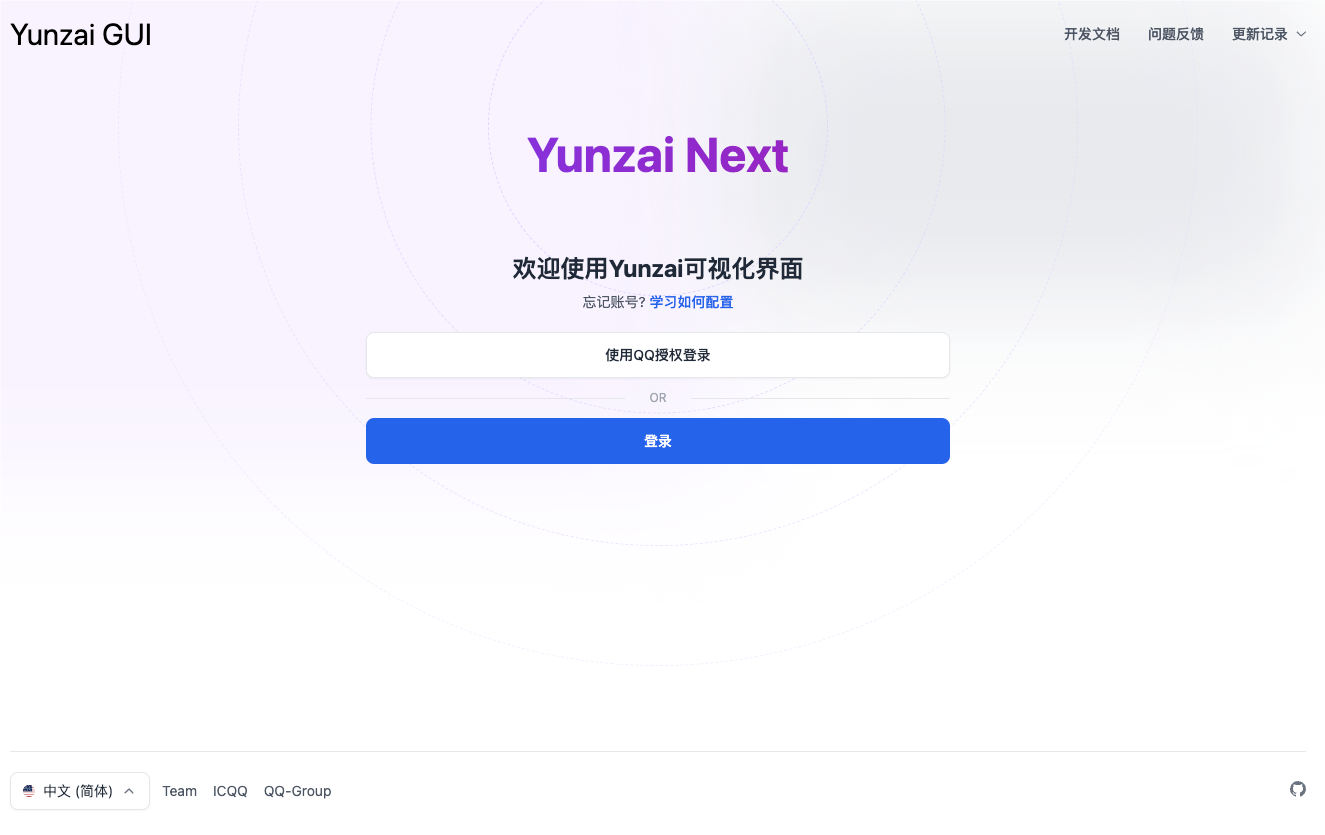
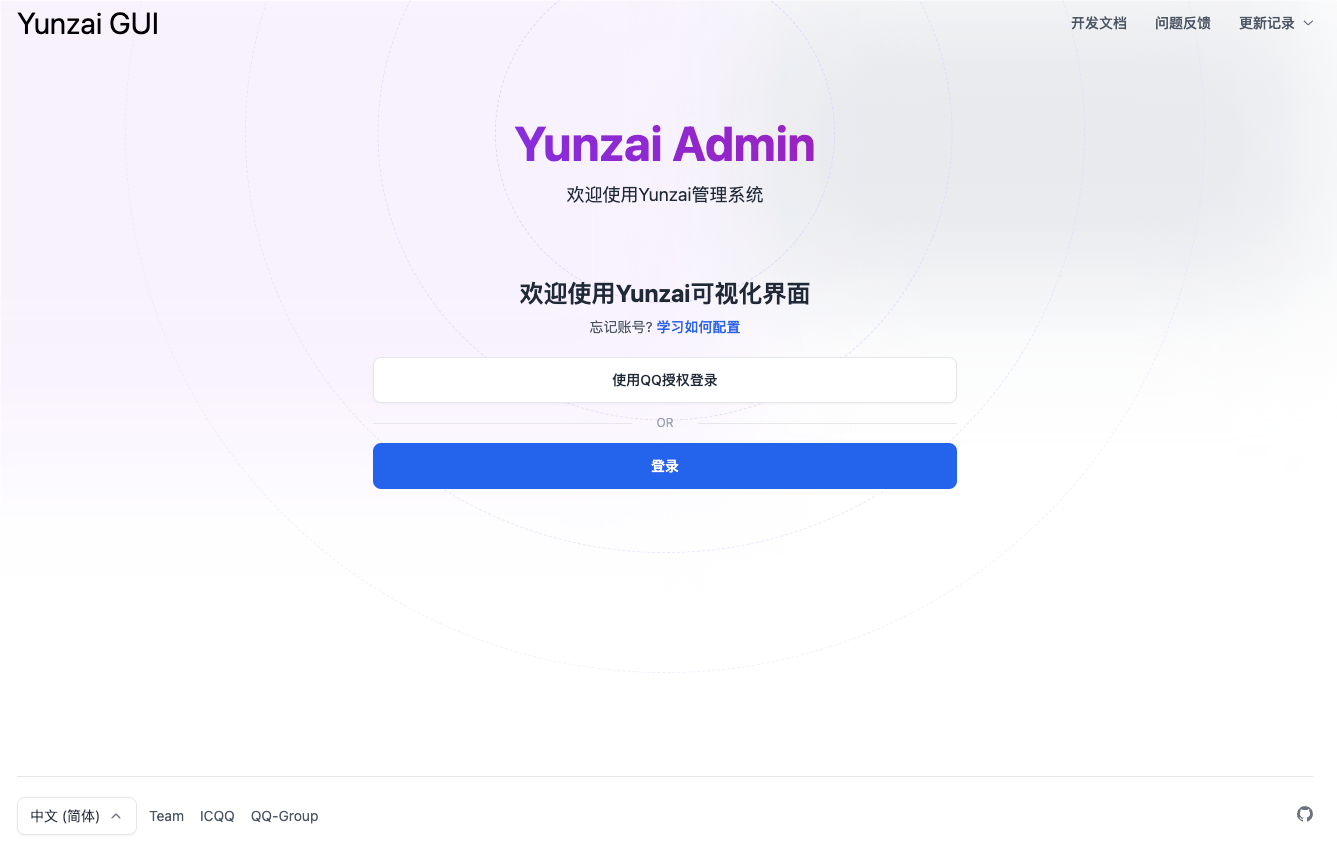
fix: 错误图标

diff --git a/src/app/pages/home/Footer.tsx b/src/app/pages/home/Footer.tsx
@@ -13,37 +13,6 @@ export default () => {
                 aria-expanded="false"
                 aria-label="Dropdown"
               >
-                <svg
-                  className="size-3 rounded-full"
-                  xmlns="http://www.w3.org/2000/svg"
-                  id="flag-icon-css-us1"
-                  viewBox="0 0 512 512"
-                >
-                  <g fillRule="evenodd">
-                    <g strokeWidth="1pt">
-                      <path
-                        fill="#bd3d44"
-                        d="M0 0h247v10H0zm0 20h247v10H0zm0 20h247v10H0zm0 20h247v10H0zm0 20h247v10H0zm0 20h247v10H0zm0 20h247v10H0z"
-                        transform="scale(3.9385)"
-                      />
-                      <path
-                        fill="#fff"
-                        d="M0 10h247v10H0zm0 20h247v10H0zm0 20h247v10H0zm0 20h247v10H0zm0 20h247v10H0zm0 20h247v10H0z"
-                        transform="scale(3.9385)"
-                      />
-                    </g>
-                    <path
-                      fill="#192f5d"
-                      d="M0 0h98.8v70H0z"
-                      transform="scale(3.9385)"
-                    />
-                    <path
-                      fill="#fff"
-                      d="M8.2 3l1 2.8H12L9.7 7.5l.9 2.7-2.4-1.7L6 10.2l.9-2.7-2.4-1.7h3zm16.5 0l.9 2.8h2.9l-2.4 1.7 1 2.7-2.4-1.7-2.4 1.7 1-2.7-2.4-1.7h2.9zm16.5 0l.9 2.8H45l-2.4 1.7 1 2.7-2.4-1.7-2.4 1.7 1-2.7-2.4-1.7h2.9zm16.4 0l1 2.8h2.8l-2.3 1.7.9 2.7-2.4-1.7-2.3 1.7.9-2.7-2.4-1.7h3zm16.5 0l.9 2.8h2.9l-2.4 1.7 1 2.7L74 8.5l-2.3 1.7.9-2.7-2.4-1.7h2.9zm16.5 0l.9 2.8h2.9L92 7.5l1 2.7-2.4-1.7-2.4 1.7 1-2.7-2.4-1.7h2.9zm-74.1 7l.9 2.8h2.9l-2.4 1.7 1 2.7-2.4-1.7-2.4 1.7 1-2.7-2.4-1.7h2.9zm16.4 0l1 2.8h2.8l-2.3 1.7.9 2.7-2.4-1.7-2.3 1.7.9-2.7-2.4-1.7h3zm16.5 0l.9 2.8h2.9l-2.4 1.7 1 2.7-2.4-1.7-2.4 1.7 1-2.7-2.4-1.7h2.9zm16.5 0l.9 2.8h2.9l-2.4 1.7 1 2.7-2.4-1.7-2.4 1.7 1-2.7-2.4-1.7H65zm16.4 0l1 2.8H86l-2.3 1.7.9 2.7-2.4-1.7-2.3 1.7.9-2.7-2.4-1.7h3zm-74 7l.8 2.8h3l-2.4 1.7.9 2.7-2.4-1.7L6 24.2l.9-2.7-2.4-1.7h3zm16.4 0l.9 2.8h2.9l-2.3 1.7.9 2.7-2.4-1.7-2.3 1.7.9-2.7-2.4-1.7h2.9zm16.5 0l.9 2.8H45l-2.4 1.7 1 2.7-2.4-1.7-2.4 1.7 1-2.7-2.4-1.7h2.9zm16.4 0l1 2.8h2.8l-2.3 1.7.9 2.7-2.4-1.7-2.3 1.7.9-2.7-2.4-1.7h3zm16.5 0l.9 2.8h2.9l-2.3 1.7.9 2.7-2.4-1.7-2.3 1.7.9-2.7-2.4-1.7h2.9zm16.5 0l.9 2.8h2.9L92 21.5l1 2.7-2.4-1.7-2.4 1.7 1-2.7-2.4-1.7h2.9zm-74.1 7l.9 2.8h2.9l-2.4 1.7 1 2.7-2.4-1.7-2.4 1.7 1-2.7-2.4-1.7h2.9zm16.4 0l1 2.8h2.8l-2.3 1.7.9 2.7-2.4-1.7-2.3 1.7.9-2.7-2.4-1.7h3zm16.5 0l.9 2.8h2.9l-2.3 1.7.9 2.7-2.4-1.7-2.3 1.7.9-2.7-2.4-1.7h2.9zm16.5 0l.9 2.8h2.9l-2.4 1.7 1 2.7-2.4-1.7-2.4 1.7 1-2.7-2.4-1.7H65zm16.4 0l1 2.8H86l-2.3 1.7.9 2.7-2.4-1.7-2.3 1.7.9-2.7-2.4-1.7h3zm-74 7l.8 2.8h3l-2.4 1.7.9 2.7-2.4-1.7L6 38.2l.9-2.7-2.4-1.7h3zm16.4 0l.9 2.8h2.9l-2.3 1.7.9 2.7-2.4-1.7-2.3 1.7.9-2.7-2.4-1.7h2.9zm16.5 0l.9 2.8H45l-2.4 1.7 1 2.7-2.4-1.7-2.4 1.7 1-2.7-2.4-1.7h2.9zm16.4 0l1 2.8h2.8l-2.3 1.7.9 2.7-2.4-1.7-2.3 1.7.9-2.7-2.4-1.7h3zm16.5 0l.9 2.8h2.9l-2.3 1.7.9 2.7-2.4-1.7-2.3 1.7.9-2.7-2.4-1.7h2.9zm16.5 0l.9 2.8h2.9L92 35.5l1 2.7-2.4-1.7-2.4 1.7 1-2.7-2.4-1.7h2.9zm-74.1 7l.9 2.8h2.9l-2.4 1.7 1 2.7-2.4-1.7-2.4 1.7 1-2.7-2.4-1.7h2.9zm16.4 0l1 2.8h2.8l-2.3 1.7.9 2.7-2.4-1.7-2.3 1.7.9-2.7-2.4-1.7h3zm16.5 0l.9 2.8h2.9l-2.3 1.7.9 2.7-2.4-1.7-2.3 1.7.9-2.7-2.4-1.7h2.9zm16.5 0l.9 2.8h2.9l-2.4 1.7 1 2.7-2.4-1.7-2.4 1.7 1-2.7-2.4-1.7H65zm16.4 0l1 2.8H86l-2.3 1.7.9 2.7-2.4-1.7-2.3 1.7.9-2.7-2.4-1.7h3zm-74 7l.8 2.8h3l-2.4 1.7.9 2.7-2.4-1.7L6 52.2l.9-2.7-2.4-1.7h3zm16.4 0l.9 2.8h2.9l-2.3 1.7.9 2.7-2.4-1.7-2.3 1.7.9-2.7-2.4-1.7h2.9zm16.5 0l.9 2.8H45l-2.4 1.7 1 2.7-2.4-1.7-2.4 1.7 1-2.7-2.4-1.7h2.9zm16.4 0l1 2.8h2.8l-2.3 1.7.9 2.7-2.4-1.7-2.3 1.7.9-2.7-2.4-1.7h3zm16.5 0l.9 2.8h2.9l-2.3 1.7.9 2.7-2.4-1.7-2.3 1.7.9-2.7-2.4-1.7h2.9zm16.5 0l.9 2.8h2.9L92 49.5l1 2.7-2.4-1.7-2.4 1.7 1-2.7-2.4-1.7h2.9zm-74.1 7l.9 2.8h2.9l-2.4 1.7 1 2.7-2.4-1.7-2.4 1.7 1-2.7-2.4-1.7h2.9zm16.4 0l1 2.8h2.8l-2.3 1.7.9 2.7-2.4-1.7-2.3 1.7.9-2.7-2.4-1.7h3zm16.5 0l.9 2.8h2.9l-2.3 1.7.9 2.7-2.4-1.7-2.3 1.7.9-2.7-2.4-1.7h2.9zm16.5 0l.9 2.8h2.9l-2.4 1.7 1 2.7-2.4-1.7-2.4 1.7 1-2.7-2.4-1.7H65zm16.4 0l1 2.8H86l-2.3 1.7.9 2.7-2.4-1.7-2.3 1.7.9-2.7-2.4-1.7h3zm-74 7l.8 2.8h3l-2.4 1.7.9 2.7-2.4-1.7L6 66.2l.9-2.7-2.4-1.7h3zm16.4 0l.9 2.8h2.9l-2.3 1.7.9 2.7-2.4-1.7-2.3 1.7.9-2.7-2.4-1.7h2.9zm16.5 0l.9 2.8H45l-2.4 1.7 1 2.7-2.4-1.7-2.4 1.7 1-2.7-2.4-1.7h2.9zm16.4 0l1 2.8h2.8l-2.3 1.7.9 2.7-2.4-1.7-2.3 1.7.9-2.7-2.4-1.7h3zm16.5 0l.9 2.8h2.9l-2.3 1.7.9 2.7-2.4-1.7-2.3 1.7.9-2.7-2.4-1.7h2.9zm16.5 0l.9 2.8h2.9L92 63.5l1 2.7-2.4-1.7-2.4 1.7 1-2.7-2.4-1.7h2.9z"
-                      transform="scale(3.9385)"
-                    />
-                  </g>
-                </svg>
                 中文 (简体)
                 <svg
                   className="hs-dropdown-open:rotate-180 shrink-0 size-4 text-gray-500 dark:text-neutral-500"
@@ -71,37 +40,6 @@ export default () => {
                   className="flex items-center gap-x-2 py-2 px-3 rounded-lg text-sm text-gray-800 hover:bg-gray-100 focus:outline-none focus:bg-gray-100 dark:text-neutral-400 dark:hover:bg-neutral-700 dark:hover:text-neutral-300 dark:focus:bg-neutral-700 dark:focus:text-neutral-300"
                   href="#"
                 >
-                  <svg
-                    className="size-3.5 rounded-full"
-                    xmlns="http://www.w3.org/2000/svg"
-                    id="flag-icon-css-us"
-                    viewBox="0 0 512 512"
-                  >
-                    <g fillRule="evenodd">
-                      <g strokeWidth="1pt">
-                        <path
-                          fill="#bd3d44"
-                          d="M0 0h247v10H0zm0 20h247v10H0zm0 20h247v10H0zm0 20h247v10H0zm0 20h247v10H0zm0 20h247v10H0zm0 20h247v10H0z"
-                          transform="scale(3.9385)"
-                        />
-                        <path
-                          fill="#fff"
-                          d="M0 10h247v10H0zm0 20h247v10H0zm0 20h247v10H0zm0 20h247v10H0zm0 20h247v10H0zm0 20h247v10H0z"
-                          transform="scale(3.9385)"
-                        />
-                      </g>
-                      <path
-                        fill="#192f5d"
-                        d="M0 0h98.8v70H0z"
-                        transform="scale(3.9385)"
-                      />
-                      <path
-                        fill="#fff"
-                        d="M8.2 3l1 2.8H12L9.7 7.5l.9 2.7-2.4-1.7L6 10.2l.9-2.7-2.4-1.7h3zm16.5 0l.9 2.8h2.9l-2.4 1.7 1 2.7-2.4-1.7-2.4 1.7 1-2.7-2.4-1.7h2.9zm16.5 0l.9 2.8H45l-2.4 1.7 1 2.7-2.4-1.7-2.4 1.7 1-2.7-2.4-1.7h2.9zm16.4 0l1 2.8h2.8l-2.3 1.7.9 2.7-2.4-1.7-2.3 1.7.9-2.7-2.4-1.7h3zm16.5 0l.9 2.8h2.9l-2.4 1.7 1 2.7L74 8.5l-2.3 1.7.9-2.7-2.4-1.7h2.9zm16.5 0l.9 2.8h2.9L92 7.5l1 2.7-2.4-1.7-2.4 1.7 1-2.7-2.4-1.7h2.9zm-74.1 7l.9 2.8h2.9l-2.4 1.7 1 2.7-2.4-1.7-2.4 1.7 1-2.7-2.4-1.7h2.9zm16.4 0l1 2.8h2.8l-2.3 1.7.9 2.7-2.4-1.7-2.3 1.7.9-2.7-2.4-1.7h3zm16.5 0l.9 2.8h2.9l-2.4 1.7 1 2.7-2.4-1.7-2.4 1.7 1-2.7-2.4-1.7h2.9zm16.5 0l.9 2.8h2.9l-2.4 1.7 1 2.7-2.4-1.7-2.4 1.7 1-2.7-2.4-1.7H65zm16.4 0l1 2.8H86l-2.3 1.7.9 2.7-2.4-1.7-2.3 1.7.9-2.7-2.4-1.7h3zm-74 7l.8 2.8h3l-2.4 1.7.9 2.7-2.4-1.7L6 24.2l.9-2.7-2.4-1.7h3zm16.4 0l.9 2.8h2.9l-2.3 1.7.9 2.7-2.4-1.7-2.3 1.7.9-2.7-2.4-1.7h2.9zm16.5 0l.9 2.8H45l-2.4 1.7 1 2.7-2.4-1.7-2.4 1.7 1-2.7-2.4-1.7h2.9zm16.4 0l1 2.8h2.8l-2.3 1.7.9 2.7-2.4-1.7-2.3 1.7.9-2.7-2.4-1.7h3zm16.5 0l.9 2.8h2.9l-2.3 1.7.9 2.7-2.4-1.7-2.3 1.7.9-2.7-2.4-1.7h2.9zm16.5 0l.9 2.8h2.9L92 21.5l1 2.7-2.4-1.7-2.4 1.7 1-2.7-2.4-1.7h2.9zm-74.1 7l.9 2.8h2.9l-2.4 1.7 1 2.7-2.4-1.7-2.4 1.7 1-2.7-2.4-1.7h2.9zm16.4 0l1 2.8h2.8l-2.3 1.7.9 2.7-2.4-1.7-2.3 1.7.9-2.7-2.4-1.7h3zm16.5 0l.9 2.8h2.9l-2.3 1.7.9 2.7-2.4-1.7-2.3 1.7.9-2.7-2.4-1.7h2.9zm16.5 0l.9 2.8h2.9l-2.4 1.7 1 2.7-2.4-1.7-2.4 1.7 1-2.7-2.4-1.7H65zm16.4 0l1 2.8H86l-2.3 1.7.9 2.7-2.4-1.7-2.3 1.7.9-2.7-2.4-1.7h3zm-74 7l.8 2.8h3l-2.4 1.7.9 2.7-2.4-1.7L6 38.2l.9-2.7-2.4-1.7h3zm16.4 0l.9 2.8h2.9l-2.3 1.7.9 2.7-2.4-1.7-2.3 1.7.9-2.7-2.4-1.7h2.9zm16.5 0l.9 2.8H45l-2.4 1.7 1 2.7-2.4-1.7-2.4 1.7 1-2.7-2.4-1.7h2.9zm16.4 0l1 2.8h2.8l-2.3 1.7.9 2.7-2.4-1.7-2.3 1.7.9-2.7-2.4-1.7h3zm16.5 0l.9 2.8h2.9l-2.3 1.7.9 2.7-2.4-1.7-2.3 1.7.9-2.7-2.4-1.7h2.9zm16.5 0l.9 2.8h2.9L92 35.5l1 2.7-2.4-1.7-2.4 1.7 1-2.7-2.4-1.7h2.9zm-74.1 7l.9 2.8h2.9l-2.4 1.7 1 2.7-2.4-1.7-2.4 1.7 1-2.7-2.4-1.7h2.9zm16.4 0l1 2.8h2.8l-2.3 1.7.9 2.7-2.4-1.7-2.3 1.7.9-2.7-2.4-1.7h3zm16.5 0l.9 2.8h2.9l-2.3 1.7.9 2.7-2.4-1.7-2.3 1.7.9-2.7-2.4-1.7h2.9zm16.5 0l.9 2.8h2.9l-2.4 1.7 1 2.7-2.4-1.7-2.4 1.7 1-2.7-2.4-1.7H65zm16.4 0l1 2.8H86l-2.3 1.7.9 2.7-2.4-1.7-2.3 1.7.9-2.7-2.4-1.7h3zm-74 7l.8 2.8h3l-2.4 1.7.9 2.7-2.4-1.7L6 52.2l.9-2.7-2.4-1.7h3zm16.4 0l.9 2.8h2.9l-2.3 1.7.9 2.7-2.4-1.7-2.3 1.7.9-2.7-2.4-1.7h2.9zm16.5 0l.9 2.8H45l-2.4 1.7 1 2.7-2.4-1.7-2.4 1.7 1-2.7-2.4-1.7h2.9zm16.4 0l1 2.8h2.8l-2.3 1.7.9 2.7-2.4-1.7-2.3 1.7.9-2.7-2.4-1.7h3zm16.5 0l.9 2.8h2.9l-2.3 1.7.9 2.7-2.4-1.7-2.3 1.7.9-2.7-2.4-1.7h2.9zm16.5 0l.9 2.8h2.9L92 49.5l1 2.7-2.4-1.7-2.4 1.7 1-2.7-2.4-1.7h2.9zm-74.1 7l.9 2.8h2.9l-2.4 1.7 1 2.7-2.4-1.7-2.4 1.7 1-2.7-2.4-1.7h2.9zm16.4 0l1 2.8h2.8l-2.3 1.7.9 2.7-2.4-1.7-2.3 1.7.9-2.7-2.4-1.7h3zm16.5 0l.9 2.8h2.9l-2.3 1.7.9 2.7-2.4-1.7-2.3 1.7.9-2.7-2.4-1.7h2.9zm16.5 0l.9 2.8h2.9l-2.4 1.7 1 2.7-2.4-1.7-2.4 1.7 1-2.7-2.4-1.7H65zm16.4 0l1 2.8H86l-2.3 1.7.9 2.7-2.4-1.7-2.3 1.7.9-2.7-2.4-1.7h3zm-74 7l.8 2.8h3l-2.4 1.7.9 2.7-2.4-1.7L6 66.2l.9-2.7-2.4-1.7h3zm16.4 0l.9 2.8h2.9l-2.3 1.7.9 2.7-2.4-1.7-2.3 1.7.9-2.7-2.4-1.7h2.9zm16.5 0l.9 2.8H45l-2.4 1.7 1 2.7-2.4-1.7-2.4 1.7 1-2.7-2.4-1.7h2.9zm16.4 0l1 2.8h2.8l-2.3 1.7.9 2.7-2.4-1.7-2.3 1.7.9-2.7-2.4-1.7h3zm16.5 0l.9 2.8h2.9l-2.3 1.7.9 2.7-2.4-1.7-2.3 1.7.9-2.7-2.4-1.7h2.9zm16.5 0l.9 2.8h2.9L92 63.5l1 2.7-2.4-1.7-2.4 1.7 1-2.7-2.4-1.7h2.9z"
-                        transform="scale(3.9385)"
-                      />
-                    </g>
-                  </svg>
                   English (US)
                 </a>
 
@@ -109,52 +47,6 @@ export default () => {
                   className="flex items-center gap-x-2 py-2 px-3 rounded-lg text-sm text-gray-800 hover:bg-gray-100 focus:outline-none focus:bg-gray-100 dark:text-neutral-400 dark:hover:bg-neutral-700 dark:hover:text-neutral-300 dark:focus:bg-neutral-700 dark:focus:text-neutral-300"
                   href="#"
                 >
-                  <svg
-                    className="size-3 rounded-full"
-                    xmlns="http://www.w3.org/2000/svg"
-                    xmlnsXlink="http://www.w3.org/1999/xlink"
-                    id="flag-icon-css-cn"
-                    viewBox="0 0 512 512"
-                  >
-                    <defs>
-                      <path
-                        id="a"
-                        fill="#ffde00"
-                        d="M1-.3L-.7.8 0-1 .6.8-1-.3z"
-                      />
-                    </defs>
-                    <path fill="#de2910" d="M0 0h512v512H0z" />
-                    <use
-                      width="30"
-                      height="20"
-                      transform="matrix(76.8 0 0 76.8 128 128)"
-                      xlinkHref="#a"
-                    />
-                    <use
-                      width="30"
-                      height="20"
-                      transform="rotate(-121 142.6 -47) scale(25.5827)"
-                      xlinkHref="#a"
-                    />
-                    <use
-                      width="30"
-                      height="20"
-                      transform="rotate(-98.1 198 -82) scale(25.6)"
-                      xlinkHref="#a"
-                    />
-                    <use
-                      width="30"
-                      height="20"
-                      transform="rotate(-74 272.4 -114) scale(25.6137)"
-                      xlinkHref="#a"
-                    />
-                    <use
-                      width="30"
-                      height="20"
-                      transform="matrix(16 -19.968 19.968 16 256 230.4)"
-                      xlinkHref="#a"
-                    />
-                  </svg>
                   中文 (繁體)
                 </a>
               </div>

diff --git a/src/app/pages/home/Main.tsx b/src/app/pages/home/Main.tsx
@@ -174,6 +174,32 @@ export default () => {
           </nav>
         </header>
 
+        <div className="relative">
+          <div
+            aria-hidden="true"
+            className="flex -z-[1] absolute -top-48 start-0"
+          >
+            <div className="bg-purple-200 opacity-30 blur-3xl w-[1036px] h-[600px] dark:bg-purple-900 dark:opacity-20"></div>
+            <div className="bg-gray-200 opacity-90 blur-3xl w-[577px] h-[300px] transform translate-y-32 dark:bg-neutral-800/60"></div>
+          </div>
+
+          <div className="max-w-[85rem] px-4 pt-10 sm:px-6 lg:px-8 lg:pt-14 mx-auto">
+            <div className="max-w-2xl mx-auto text-center mb-10">
+              <h2 className="text-3xl leading-tight font-bold md:text-4xl md:leading-tight lg:text-5xl lg:leading-tight bg-clip-text bg-gradient-to-r from-violet-600 to-fuchsia-700 text-transparent">
+                Yunzai Admin
+              </h2>
+              <p className="mt-2 lg:text-lg text-gray-800 dark:text-neutral-200">
+                欢迎使用Yunzai管理系统
+              </p>
+            </div>
+          </div>
+
+          <div className="absolute top-1/2 start-1/2 -z-[1] transform -translate-y-1/2 -translate-x-1/2 w-[340px] h-[340px] border border-dashed border-violet-200 rounded-full dark:border-violet-900/60"></div>
+          <div className="absolute top-1/2 start-1/2 -z-[1] transform -translate-y-1/2 -translate-x-1/2 w-[575px] h-[575px] border border-dashed border-violet-200 rounded-full opacity-80 dark:border-violet-900/60"></div>
+          <div className="absolute top-1/2 start-1/2 -z-[1] transform -translate-y-1/2 -translate-x-1/2 w-[840px] h-[840px] border border-dashed border-violet-200 rounded-full opacity-60 dark:border-violet-900/60"></div>
+          <div className="absolute top-1/2 start-1/2 -z-[1] transform -translate-y-1/2 -translate-x-1/2 w-[1080px] h-[1080px] border border-dashed border-violet-200 rounded-full opacity-40 dark:border-violet-900/60"></div>
+        </div>
+
         <div className="w-[23rem] sm:w-[30rem] md:w-[40rem] ] m-auto">
           {show ? (
             <div className="mt-7 min-h-[50vh]">
